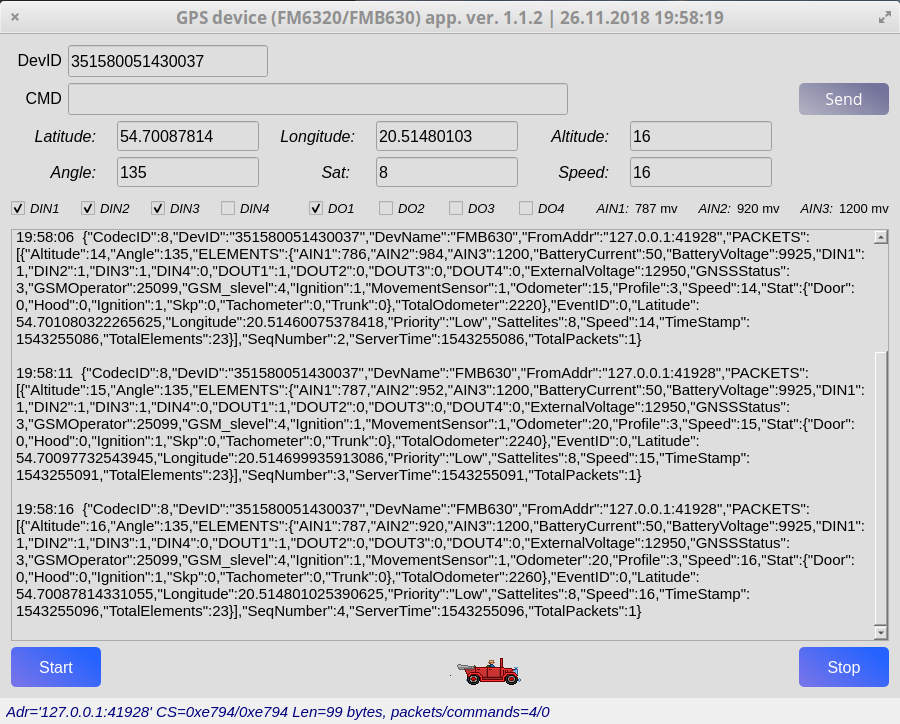
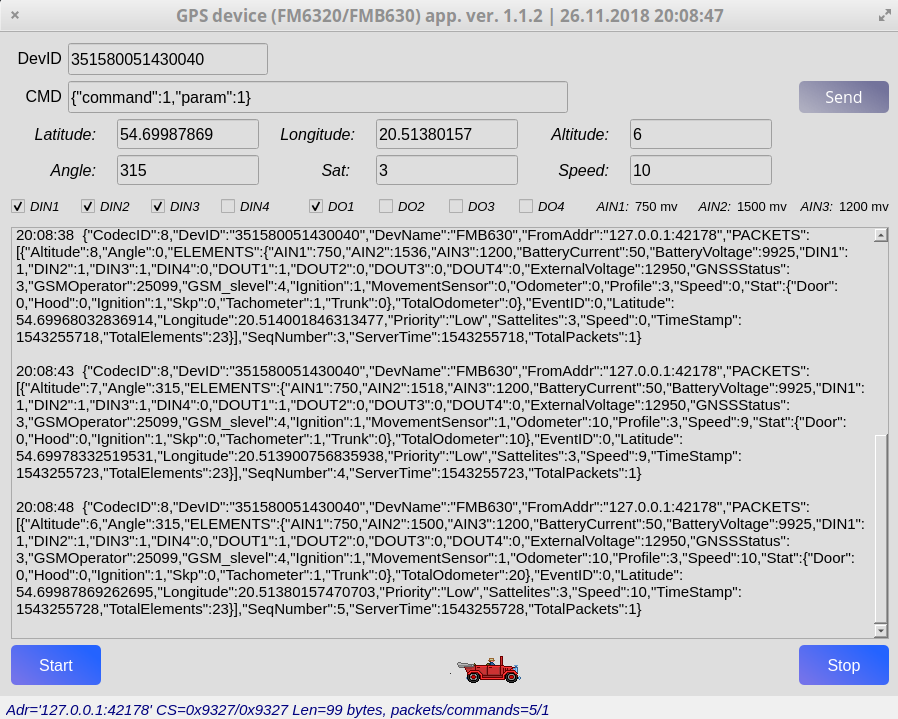
Minor changes++

diff --git a/srv.cpp b/srv.cpp
@@ -1,9 +1,6 @@
 #include "srv.h"
 #include "ui_srv.h"
-
-
 //-----------------------------------------------------------------------
-
 //char const *vers = "0.2";//15.11.2018
 //char const *vers = "0.3";//17.11.2018
 //char const *vers = "0.4";//18.11.2018
@@ -21,7 +18,9 @@
 //char const *vers = "1.0";//24.11.2018
 //char const *vers = "1.1";//26.11.2018
 //char const *vers = "1.1.1";//26.11.2018
-char const *vers = "1.1.2";//26.11.2018
+//char const *vers = "1.1.2";//26.11.2018
+//char const *vers = "1.1.3";//26.11.2018
+char const *vers = "1.2";//27.11.2018
 
 
 const QString title = "GPS device (FM6320/FMB630) app.";
@@ -45,6 +44,8 @@ const QString srv_command_time = "time";
 const QString mvolt = " mv";
 
 const QString car = ":/png/transport6.gif";
+
+const char *form = "DOUTS are set to: ";
 
 //--------------------   Commands for device FMB630/FM6320   ---------------------------------------
 const char *cmds[] = {
@@ -579,9 +580,10 @@ QJsonObject *MainWindow::ConvertStrToJsonObject(char *st, int *kda)
 const int max_str = 256;
 int dl = 0, cmd = *kda, loop = 1, cnt = 0;
 char tp[max_str], val[max_str];
-uint8_t err = 0;
+uint8_t err = 0, up = 0;
 QJsonObject *ret = NULL;
 char *uki = NULL, *uks = NULL, *uke = NULL, *ukend = NULL;
+
 
     if (!st) return ret;
     else {
@@ -660,6 +662,18 @@ char *uki = NULL, *uks = NULL, *uke = NULL, *ukend = NULL;
                 }
             }
         break;
+        case 1://"DOUTS are set to: 1000 TMOs are: 0 0 0 0"
+        case 2:
+            uks = strstr(st, form);
+            if (uks) {
+                uks += strlen(form);
+                char cha = *uks++; if ((cha == '1') || (cha == '0')) pins.dout1 = (cha - 0x30);
+                cha = *uks++;      if ((cha == '1') || (cha == '0')) pins.dout2 = cha - 0x30;
+                cha = *uks++;      if ((cha == '1') || (cha == '0')) pins.dout3 = cha - 0x30;
+                cha = *uks;        if ((cha == '1') || (cha == '0')) pins.dout4 = cha - 0x30;
+                up = 1;
+            }
+        break;
     }//switch (cmd)
 
     if ((err) && (ret)) {
@@ -667,24 +681,28 @@ char *uki = NULL, *uks = NULL, *uke = NULL, *ukend = NULL;
         ret = NULL;
     }
 
-    if (!err && ret && (cmd == 15)) {
-        QJsonValue tmp;
-        tmp = ret->value("DI1"); if (!tmp.isUndefined()) pins.din1 = tmp.toString().toInt();
-        tmp = ret->value("DI2"); if (!tmp.isUndefined()) pins.din2 = tmp.toString().toInt();
-        tmp = ret->value("DI3"); if (!tmp.isUndefined()) pins.din3 = tmp.toString().toInt();
-        tmp = ret->value("DI4"); if (!tmp.isUndefined()) pins.din4 = tmp.toString().toInt();
+    if (!err && ret) {
+        if (cmd == 15)  {
+            QJsonValue tmp;
+            tmp = ret->value("DI1"); if (!tmp.isUndefined()) pins.din1 = tmp.toString().toInt();
+            tmp = ret->value("DI2"); if (!tmp.isUndefined()) pins.din2 = tmp.toString().toInt();
+            tmp = ret->value("DI3"); if (!tmp.isUndefined()) pins.din3 = tmp.toString().toInt();
+            tmp = ret->value("DI4"); if (!tmp.isUndefined()) pins.din4 = tmp.toString().toInt();
 
-        tmp = ret->value("DO1"); if (!tmp.isUndefined()) pins.dout1 = tmp.toString().toInt();
-        tmp = ret->value("DO2"); if (!tmp.isUndefined()) pins.dout2 = tmp.toString().toInt();
-        tmp = ret->value("DO3"); if (!tmp.isUndefined()) pins.dout3 = tmp.toString().toInt();
-        tmp = ret->value("DO4"); if (!tmp.isUndefined()) pins.dout4 = tmp.toString().toInt();
+            tmp = ret->value("DO1"); if (!tmp.isUndefined()) pins.dout1 = tmp.toString().toInt();
+            tmp = ret->value("DO2"); if (!tmp.isUndefined()) pins.dout2 = tmp.toString().toInt();
+            tmp = ret->value("DO3"); if (!tmp.isUndefined()) pins.dout3 = tmp.toString().toInt();
+            tmp = ret->value("DO4"); if (!tmp.isUndefined()) pins.dout4 = tmp.toString().toInt();
 
-        tmp = ret->value("AIN1"); if (!tmp.isUndefined()) pins.ain1 = tmp.toString().toInt();
-        tmp = ret->value("AIN2"); if (!tmp.isUndefined()) pins.ain2 = tmp.toString().toInt();
-        tmp = ret->value("AIN3"); if (!tmp.isUndefined()) pins.ain3 = tmp.toString().toInt();
-
-        UpdatePins();
+            tmp = ret->value("AIN1"); if (!tmp.isUndefined()) pins.ain1 = tmp.toString().toInt();
+            tmp = ret->value("AIN2"); if (!tmp.isUndefined()) pins.ain2 = tmp.toString().toInt();
+            tmp = ret->value("AIN3"); if (!tmp.isUndefined()) pins.ain3 = tmp.toString().toInt();
+            up = 1;
+        }
     }
+
+    if (up) UpdatePins();
+
 
     return ret;
 }
@@ -1099,14 +1117,11 @@ MainWindow::MainWindow(QWidget *parent, int p) : QMainWindow(parent), ui(new Ui:
     total_pack = total_cmd = 0;
     setWindowTitle(title + " ver. " + vers);
     ui->sending->setEnabled(false);
-    //ui->avto->hide();
     memset((uint8_t *)&pins, 0, sizeof(s_pins));
     tmr_sec = startTimer(1000);// 1 sec.
 
     movie = new QMovie(car);
     ui->avto->setMovie(movie);
-
-    //movie->start();
 }
 //-----------------------------------------------------------------------
 MainWindow::~MainWindow()
@@ -1114,7 +1129,6 @@ MainWindow::~MainWindow()
     killTimer(tmr_sec);
     if (tmr_ack) killTimer(tmr_ack);
     this->disconnect();
-    //movie->stop();
     delete movie;
     delete ui;
 }
@@ -1206,8 +1220,6 @@ void MainWindow::on_starting_clicked()
     ui->sending->setEnabled(false);
     memset((uint8_t *)&pins, 0, sizeof(s_pins));
 
-    //ui->avto->setVisible(true);
-    //movie->start();
 }
 //-----------------------------------------------------------------------
 void MainWindow::on_stoping_clicked()
@@ -1257,7 +1269,7 @@ void MainWindow::newuser()
             connect(SClients[fd], SIGNAL(error(QAbstractSocket::SocketError)), this, SLOT(slotErrorClient(QAbstractSocket::SocketError)));
             connect(this, SIGNAL(sigRdyPack(int)), this, SLOT(slotRdyPack(int)));
             statusBar()->clearMessage(); statusBar()->showMessage(stx);
-            ui->sending->setEnabled(true);//unblock send button
+            ui->sending->setEnabled(true);
             memset((uint8_t *)&pins, 0, sizeof(s_pins));
         } else {
             stx.append("New client '" + CliUrl + "' online, socket " + ssock + ", but client already present !\n");
@@ -1329,11 +1341,10 @@ QString stx;
             LogSave(__func__, stx, true);
             statusBar()->clearMessage(); statusBar()->showMessage(stx);
 
-            //send ack : cnt_pack
+            //--------------------- send ack : cnt_pack ----------------------------
             memset(to_cli, 0, 4); to_cli[3] = cnt_pack; cliSocket->write(to_cli, 4);
 
             emit sigRdyPack(lenrecv);
-
         }
     }
 
@@ -1471,44 +1482,44 @@ char st[4] = {0};
                         sprintf(cmd_par+strlen(cmd_par)," 0 0 0 0");
                     }
                 break;
-                case 3://{"command":3} - 'разблокировать бензонасос' -> "SET_ON 1 0"  //{"command":33, "relay":1,"time":0}
+                case 3:
                     if (cmd_id == 3) cid = 33;//"SET_ON 1 0"
                                 else cid = 34;//"SET_OFF 1 0"
                     sprintf(cmd_par, " 1 0");
                 break;
-                case 4://{"command":4} - 'заблокировать бензонасоса' -> "SET_OFF 1 0"  //{"command":34, "relay":1,"time":0}
+                case 4:
                     if (cmd_id == 3) cid = 33;//"SET_ON 1 0"
                                 else cid = 34;//"SET_OFF 1 0"
                     sprintf(cmd_par, " 1 0");
                 break;
-                case 5://{"command":5} - 'разблокировать двери' -> "SET_ON 2 2" //{"command":33,"relay":2, "time":2}
+                case 5:
                     cid = 33;
                     sprintf(cmd_par, " 2 2");//"SET_ON 2 2"
                 break;
-                case 6://{"command":6} - 'заблокировать двери' (18 сек) -> "SET_ON 3 18" //{"command":33,"relay":3, "time":18}
-                case 7://{"command":7} - 'заблокировать двери' (2 сек) -> "SET_ON 3 2" //{"command":33,"relay":3, "time":2}
+                case 6:
+                case 7:
                     cid = 33;
                     if (cmd_id == 6) sprintf(cmd_par, " 3 18");//"SET_ON 3 18"
                                 else sprintf(cmd_par, " 3 2");//"SET_ON 3 2"
                 break;
-                case 8://{"command":8} - 'включить аврийку' -> "SET_ON 4 0" //{"command":33,"relay":4,"time":0}
-                case 10://{"command":10} - 'выключить аварийку' -> "SET_OFF 4 0" //{"command":34,"relay":4,"time":0}
+                case 8:
+                case 10:
                     if (cmd_id == 8) cid = 33;//"SET_ON 4 0"
                                 else cid = 34;//"SET_OFF 4 0"
                     sprintf(cmd_par, " 4 0");
                 break;
-                case 9://{"command":9} - 'включить аврийку' -> "SET_ON 4 Y" //{"command":33,"relay":4,"time":Y}
+                case 9:
                     cid = 33;
                     sprintf(cmd_par, " 4 %d", 5);//oc_time);//"SET_ON 4 Y"
                 break;
-                case 11://{"command":11} - 'включить зажигание' -> "SET_ON 5 0" //{"command":33,"relay":5,"time":0}
-                case 12://{"command":12} - 'выключить зажигание' -> "SET_OFF 5 0" //{"command":34,"relay":5,"time":0}
+                case 11:
+                case 12:
                     if (cmd_id == 11)  cid = 33;//"SET_ON 5 0"
                                   else cid = 34;//"SET_OFF 5 0"
                     sprintf(cmd_par, " 5 0");
                 break;
-                case 13://{"command":13} - 'запустить стартер' -> "SET_ON 6 2" //{"command":33,"relay":6,"time":2}
-                case 14://{"command":14} - 'включить звуковой сигнал на 1 сек.' "SET_ON 7 2" //{"command":33,"relay":7,"time":2}
+                case 13:
+                case 14:
                     cid = 33;
                     if (cmd_id == 13) sprintf(cmd_par, " 6 2");//"SET_ON 6 2"
                                  else sprintf(cmd_par, " 7 2");//"SET_ON 7 2"

diff --git a/main.cpp b/main.cpp
@@ -2,12 +2,14 @@
 
 int main(int argc, char *argv[])
 {
-const int port = 9090;
+int port = 9090;
 int cerr = 0;
 QString errStr = "";
 QString cerrStr;
 
     setlocale(LC_ALL,"UTF8");
+
+    if (argc > 1) port = atoi(argv[1]);
 
     try {
         QApplication srv(argc, argv);

diff --git a/srv.h b/srv.h
@@ -6,6 +6,7 @@
 #include <arpa/inet.h>
 #include <time.h>
 #include <endian.h>
+#include <stdlib.h>
 #include <QApplication>
 #include <QMainWindow>
 #include <QtNetwork>
